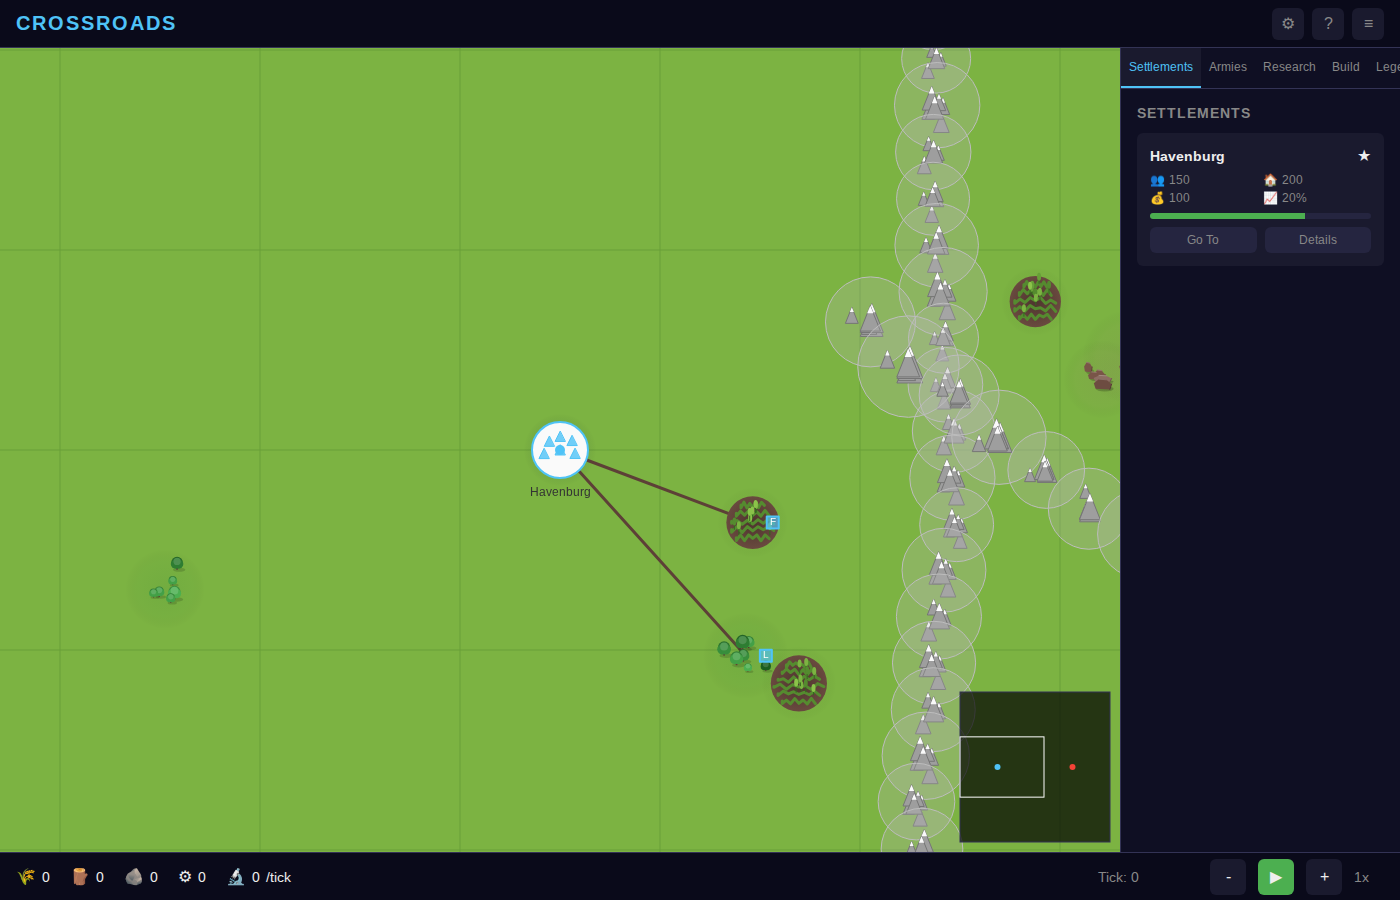
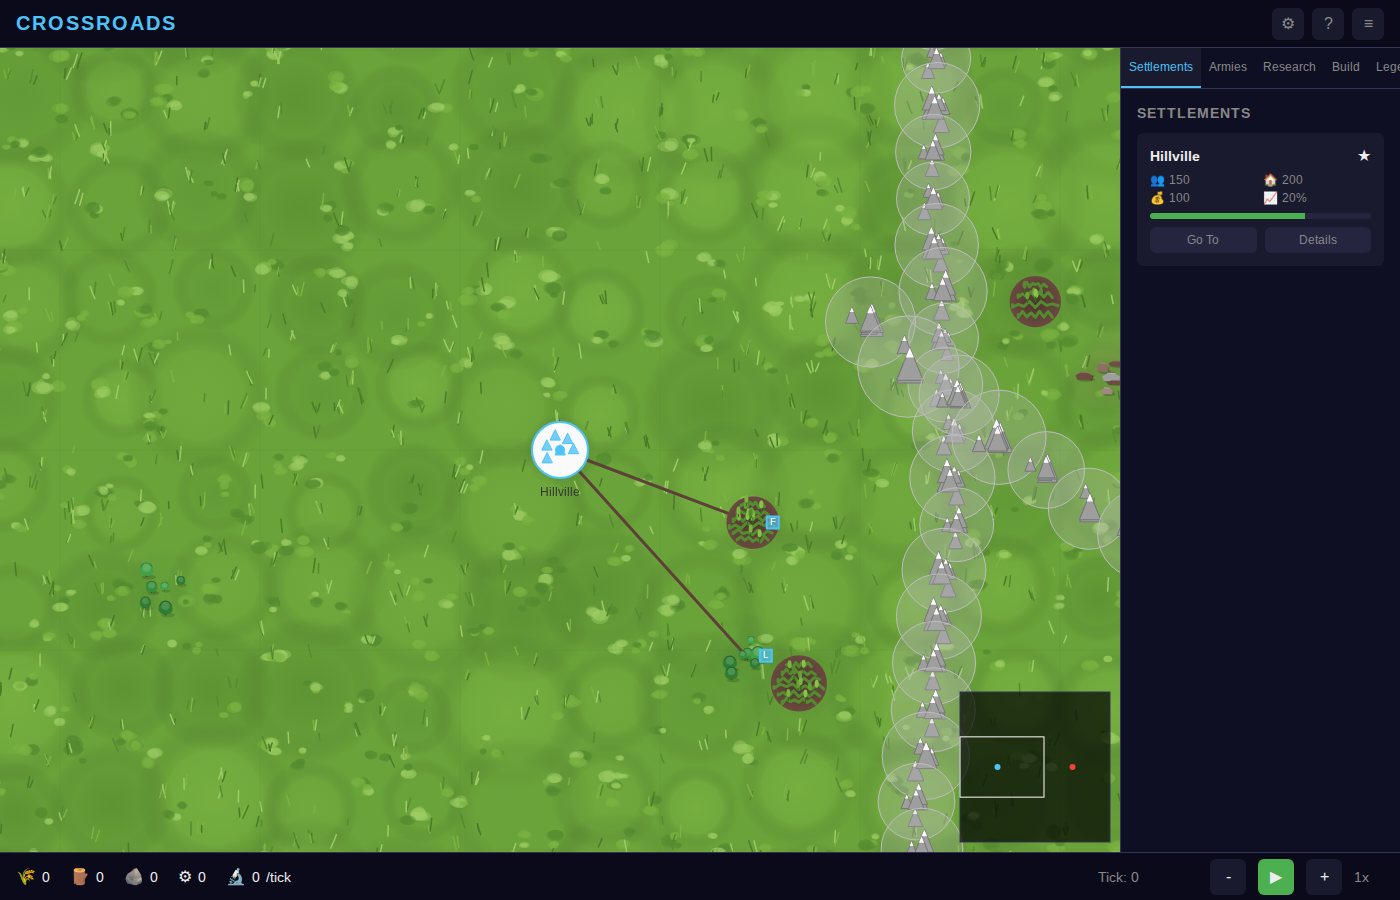
Add realistic multi-layered grass terrain rendering
- Add grass color palette with multiple shades for natural variation
- Implement drawGrassTerrain with three rendering layers:
  1. Large patches for terrain color variation (radial gradients)
  2. Medium grass clumps scattered across the terrain
  3. Individual grass blades visible at higher zoom levels
- Use position-based seeded randomness for deterministic rendering
- Add hashCoords function for consistent terrain generation
- Make grid lines more subtle (40% opacity)
- Update base grass color to slightly darker shade for better contrast

The terrain now has organic-looking variation instead of flat solid color.

https://claude.ai/code/session_01HUpx2CsxDqKLN25XpLJsp3

diff --git a/frontend/js/renderer.js b/frontend/js/renderer.js
@@ -11,8 +11,19 @@ class Renderer {
 
         // Colors from design doc
         this.colors = {
-            mapBackground: '#7cb342',  // Grass green background
-            gridLines: '#689f38',      // Slightly darker green grid
+            mapBackground: '#6aa33a',  // Grass green background (slightly darker base)
+            gridLines: '#5a8f32',      // Slightly darker green grid
+
+            // Grass color palette for realistic rendering
+            grass: {
+                base: '#6aa33a',
+                light: '#7cb342',
+                lighter: '#8bc34a',
+                dark: '#558b2f',
+                darker: '#4a7c28',
+                accent: '#9ccc65',
+                shadow: '#4e7a25'
+            },
             selection: '#4fc3f7',
             selectionGlow: 'rgba(79, 195, 247, 0.3)',
 
@@ -75,12 +86,15 @@ class Renderer {
     render(gameState) {
         const ctx = this.ctx;
 
-        // Clear canvas
+        // Clear canvas with base grass color
         ctx.fillStyle = this.colors.mapBackground;
         ctx.fillRect(0, 0, this.canvas.width, this.canvas.height);
 
         // Apply camera transform
         this.camera.applyTransform(ctx);
+
+        // Draw realistic grass terrain
+        this.drawGrassTerrain(ctx);
 
         // Draw grid (optional, subtle)
         this.drawGrid(ctx);
@@ -146,7 +160,7 @@ class Renderer {
         const gridSize = 200;
         const bounds = this.camera.getVisibleBounds();
 
-        ctx.strokeStyle = this.colors.gridLines;
+        ctx.strokeStyle = this.colors.gridLines + '40';  // More subtle grid
         ctx.lineWidth = 1 / this.camera.zoom;
 
         const startX = Math.floor(bounds.left / gridSize) * gridSize;
@@ -162,6 +176,225 @@ class Renderer {
             ctx.lineTo(bounds.right, y);
         }
         ctx.stroke();
+    }
+
+    /**
+     * Draw realistic grass terrain with multiple layers
+     */
+    drawGrassTerrain(ctx) {
+        const bounds = this.camera.getVisibleBounds();
+        const grass = this.colors.grass;
+
+        // Layer 1: Large grass patches (terrain variation)
+        this.drawGrassPatches(ctx, bounds);
+
+        // Layer 2: Medium grass clumps
+        this.drawGrassClumps(ctx, bounds);
+
+        // Layer 3: Individual grass blades (only at higher zoom)
+        if (this.camera.zoom >= 0.6) {
+            this.drawGrassBlades(ctx, bounds);
+        }
+    }
+
+    /**
+     * Draw large grass patches for terrain color variation
+     * Uses a consistent grid-based approach with seeded randomness
+     */
+    drawGrassPatches(ctx, bounds) {
+        const patchSize = 100;
+        const grass = this.colors.grass;
+
+        const startX = Math.floor(bounds.left / patchSize) * patchSize;
+        const startY = Math.floor(bounds.top / patchSize) * patchSize;
+
+        for (let x = startX; x <= bounds.right + patchSize; x += patchSize) {
+            for (let y = startY; y <= bounds.bottom + patchSize; y += patchSize) {
+                // Use position-based seed for consistency
+                const seed = this.hashCoords(x, y, 1);
+                const rng = this.seededRandom(seed);
+
+                // Determine patch characteristics
+                const brightness = rng();
+
+                // Create subtle color variations
+                let patchColor;
+                if (brightness < 0.2) {
+                    patchColor = grass.darker;
+                } else if (brightness < 0.4) {
+                    patchColor = grass.dark;
+                } else if (brightness < 0.6) {
+                    patchColor = grass.base;
+                } else if (brightness < 0.8) {
+                    patchColor = grass.light;
+                } else {
+                    patchColor = grass.lighter;
+                }
+
+                // Draw patch with soft edges using gradient
+                const centerX = x + patchSize / 2 + (rng() - 0.5) * patchSize * 0.3;
+                const centerY = y + patchSize / 2 + (rng() - 0.5) * patchSize * 0.3;
+                const radius = patchSize * (0.4 + rng() * 0.4);
+
+                const gradient = ctx.createRadialGradient(
+                    centerX, centerY, 0,
+                    centerX, centerY, radius
+                );
+                gradient.addColorStop(0, patchColor + '60');
+                gradient.addColorStop(0.6, patchColor + '30');
+                gradient.addColorStop(1, 'transparent');
+
+                ctx.fillStyle = gradient;
+                ctx.beginPath();
+                ctx.arc(centerX, centerY, radius, 0, Math.PI * 2);
+                ctx.fill();
+            }
+        }
+    }
+
+    /**
+     * Draw medium grass clumps scattered across the terrain
+     */
+    drawGrassClumps(ctx, bounds) {
+        const clumpSpacing = 50;
+        const grass = this.colors.grass;
+
+        const startX = Math.floor(bounds.left / clumpSpacing) * clumpSpacing;
+        const startY = Math.floor(bounds.top / clumpSpacing) * clumpSpacing;
+
+        for (let x = startX; x <= bounds.right + clumpSpacing; x += clumpSpacing) {
+            for (let y = startY; y <= bounds.bottom + clumpSpacing; y += clumpSpacing) {
+                const seed = this.hashCoords(x, y, 2);
+                const rng = this.seededRandom(seed);
+
+                // Skip some positions for natural randomness
+                if (rng() > 0.7) continue;
+
+                const clumpX = x + (rng() - 0.5) * clumpSpacing * 0.8;
+                const clumpY = y + (rng() - 0.5) * clumpSpacing * 0.8;
+
+                // Draw a small cluster of grass tufts
+                const numTufts = 2 + Math.floor(rng() * 3);
+                for (let i = 0; i < numTufts; i++) {
+                    const tuftX = clumpX + (rng() - 0.5) * 20;
+                    const tuftY = clumpY + (rng() - 0.5) * 20;
+                    const size = 4 + rng() * 6;
+                    const shade = rng();
+
+                    let color;
+                    if (shade < 0.3) {
+                        color = grass.dark;
+                    } else if (shade < 0.7) {
+                        color = grass.light;
+                    } else {
+                        color = grass.accent;
+                    }
+
+                    this.drawGrassTuft(ctx, tuftX, tuftY, size, color, rng);
+                }
+            }
+        }
+    }
+
+    /**
+     * Draw individual grass blades for detail at high zoom
+     */
+    drawGrassBlades(ctx, bounds) {
+        const bladeSpacing = 25 / this.camera.zoom;
+        const grass = this.colors.grass;
+
+        // Limit density at very high zoom to avoid performance issues
+        const maxBladeSpacing = Math.max(bladeSpacing, 15);
+
+        const startX = Math.floor(bounds.left / maxBladeSpacing) * maxBladeSpacing;
+        const startY = Math.floor(bounds.top / maxBladeSpacing) * maxBladeSpacing;
+
+        for (let x = startX; x <= bounds.right + maxBladeSpacing; x += maxBladeSpacing) {
+            for (let y = startY; y <= bounds.bottom + maxBladeSpacing; y += maxBladeSpacing) {
+                const seed = this.hashCoords(x, y, 3);
+                const rng = this.seededRandom(seed);
+
+                // Sparse distribution
+                if (rng() > 0.4) continue;
+
+                const bladeX = x + (rng() - 0.5) * maxBladeSpacing;
+                const bladeY = y + (rng() - 0.5) * maxBladeSpacing;
+
+                // Draw 1-3 blades in a small cluster
+                const numBlades = 1 + Math.floor(rng() * 3);
+                for (let i = 0; i < numBlades; i++) {
+                    const bx = bladeX + (rng() - 0.5) * 6;
+                    const by = bladeY + (rng() - 0.5) * 4;
+                    const height = (6 + rng() * 8) / this.camera.zoom;
+                    const curve = (rng() - 0.5) * 0.6;
+                    const shade = rng();
+
+                    let color;
+                    if (shade < 0.25) {
+                        color = grass.darker;
+                    } else if (shade < 0.5) {
+                        color = grass.dark;
+                    } else if (shade < 0.75) {
+                        color = grass.light;
+                    } else {
+                        color = grass.accent;
+                    }
+
+                    this.drawSingleGrassBlade(ctx, bx, by, height, curve, color);
+                }
+            }
+        }
+    }
+
+    /**
+     * Draw a single grass tuft (small cluster of overlapping shapes)
+     */
+    drawGrassTuft(ctx, x, y, size, color, rng) {
+        // Draw multiple overlapping ellipses for a tuft effect
+        ctx.fillStyle = color + '70';
+
+        for (let i = 0; i < 3; i++) {
+            const offsetX = (rng() - 0.5) * size * 0.5;
+            const offsetY = (rng() - 0.5) * size * 0.3;
+            const w = size * (0.6 + rng() * 0.4);
+            const h = size * (0.4 + rng() * 0.3);
+
+            ctx.beginPath();
+            ctx.ellipse(x + offsetX, y + offsetY, w, h, 0, 0, Math.PI * 2);
+            ctx.fill();
+        }
+    }
+
+    /**
+     * Draw a single grass blade
+     */
+    drawSingleGrassBlade(ctx, x, y, height, curve, color) {
+        ctx.strokeStyle = color;
+        ctx.lineWidth = 1.5 / this.camera.zoom;
+        ctx.lineCap = 'round';
+
+        ctx.beginPath();
+        ctx.moveTo(x, y);
+
+        // Draw curved blade using quadratic curve
+        const controlX = x + curve * height;
+        const controlY = y - height * 0.6;
+        const endX = x + curve * height * 1.5;
+        const endY = y - height;
+
+        ctx.quadraticCurveTo(controlX, controlY, endX, endY);
+        ctx.stroke();
+    }
+
+    /**
+     * Hash coordinates to get consistent seed for a position
+     */
+    hashCoords(x, y, layer) {
+        // Combine coordinates and layer into a single seed
+        const a = Math.floor(x / 10) * 73856093;
+        const b = Math.floor(y / 10) * 19349663;
+        const c = layer * 83492791;
+        return Math.abs((a ^ b ^ c) & 0x7fffffff);
     }
 
     /**
